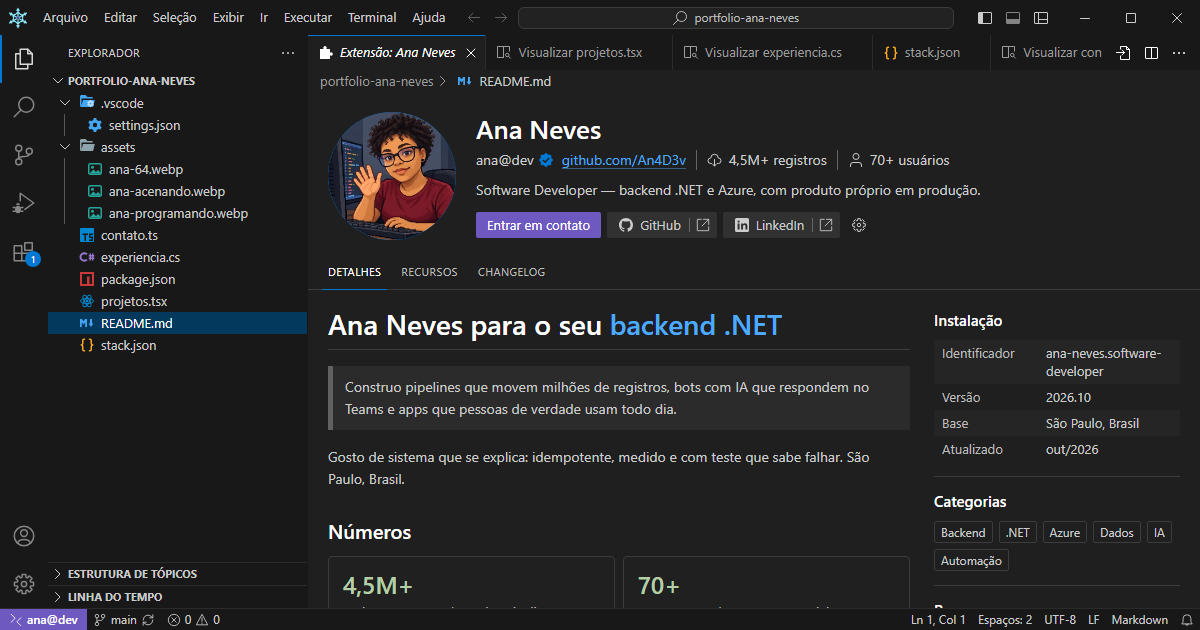
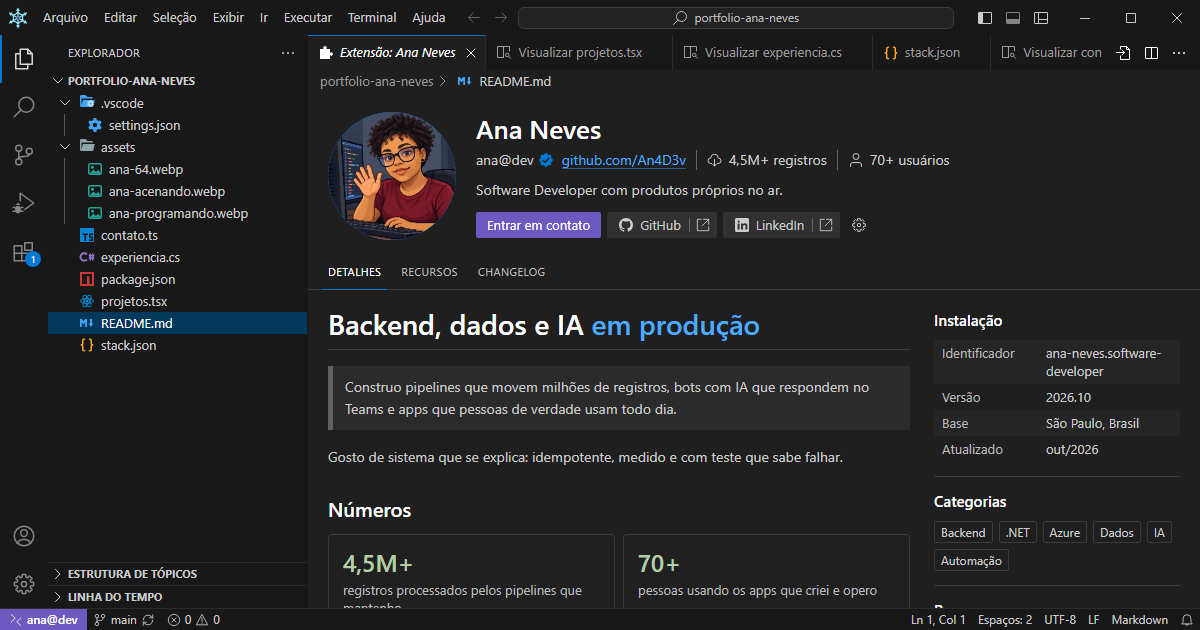
README: destaque 'Backend, dados e IA em produção' e nome sem repetição

diff --git a/index.html b/index.html
@@ -5,13 +5,13 @@
 <meta name="viewport" content="width=device-width, initial-scale=1, viewport-fit=cover, interactive-widget=resizes-content">
 <meta http-equiv="Content-Security-Policy" content="default-src 'self'; script-src 'self'; style-src 'self'; img-src 'self' data:; font-src 'self'; connect-src 'self' https://rumo-amber.vercel.app https://financas-app-ruby.vercel.app https://vale-do-trevo.vercel.app; base-uri 'none'; form-action 'none'; object-src 'none'">
 <title>Ana Neves · Software Developer</title>
-<meta name="description" content="Ana Neves — desenvolvedora backend .NET e Azure em São Paulo. Um portfólio que é um editor de código: abra as abas para ver projetos no ar, experiência, stack e contato.">
+<meta name="description" content="Ana Neves — desenvolvedora de software em São Paulo: backend, dados e IA em produção. Um portfólio que é um editor de código: abra as abas para ver projetos no ar, experiência, stack e contato.">
 <meta name="author" content="Ana Neves">
 <meta name="theme-color" content="#1f1f1f">
 <meta property="og:type" content="website">
 <meta property="og:locale" content="pt_BR">
 <meta property="og:title" content="Ana Neves · Software Developer">
-<meta property="og:description" content="Backend .NET e Azure, com produto próprio em produção. Um portfólio que é um editor de código — abra as abas.">
+<meta property="og:description" content="Backend, dados e IA em produção. Um portfólio que é um editor de código — abra as abas.">
 <meta property="og:url" content="https://ana-neves.vercel.app/">
 <meta property="og:image" content="https://ana-neves.vercel.app/og.png">
 <meta property="og:image:width" content="1200">
@@ -129,7 +129,7 @@
 <noscript>
   <div class="md">
     <h1>Ana Neves</h1>
-    <p>Software Developer — backend .NET e Azure, com produto próprio em produção. São Paulo, Brasil.</p>
+    <p>Software Developer — backend, dados e IA em produção. São Paulo, Brasil.</p>
     <p>Este portfólio é um editor de código interativo e precisa de JavaScript. Enquanto isso:
       <a href="https://github.com/An4D3v">GitHub</a> ·
       <a href="https://www.linkedin.com/in/anad3v/">LinkedIn</a> ·
@@ -399,7 +399,7 @@
             <span>70+ usuários</span>
           </span>
         </div>
-        <p class="ext-descricao">Software Developer — backend .NET e Azure, com produto próprio em produção.</p>
+        <p class="ext-descricao">Software Developer com produtos próprios no ar.</p>
         <div class="ext-acoes">
           <a class="ext-btn ext-btn-primario" href="mailto:ana-neves98@outlook.com">Entrar em contato</a>
           <a class="ext-btn ext-btn-secundario" href="https://github.com/An4D3v" target="_blank" rel="noopener">
@@ -428,13 +428,13 @@
     <div class="ext-painel" role="tabpanel" id="ext-painel-detalhes" aria-labelledby="ext-aba-detalhes" tabindex="0">
       <div class="ext-detalhes">
         <article class="ext-md">
-          <h2 class="ext-md-h1">Ana Neves para o seu <span class="ext-md-link">backend .NET</span></h2>
+          <h2 class="ext-md-h1">Backend, dados e IA <span class="ext-md-link">em&nbsp;produção</span></h2>
 
           <blockquote class="ext-md-citacao">
             <p>Construo pipelines que movem milhões de registros, bots com IA que respondem no Teams e apps que pessoas de verdade usam todo dia.</p>
           </blockquote>
 
-          <p>Gosto de sistema que se explica: idempotente, medido e com teste que sabe falhar. São Paulo, Brasil.</p>
+          <p>Gosto de sistema que se explica: idempotente, medido e com teste que sabe falhar.</p>
 
           <h3 class="ext-md-h2">Números</h3>
           <ul class="ext-numeros" role="list">

diff --git a/app.js b/app.js
@@ -123,8 +123,8 @@
   const FONTES = {
     sobre: () => `# Ana Neves
 
-> Software Developer — backend **.NET** e **Azure**, com produto próprio em produção.
-> São Paulo, Brasil · [ana@dev](https://github.com/An4D3v)
+> **Backend, dados e IA em produção.**
+> Software Developer com produtos próprios no ar · São Paulo, Brasil · [ana@dev](https://github.com/An4D3v)
 
 Construo pipelines que movem milhões de registros, bots com IA que
 respondem no Teams e apps que pessoas de verdade usam todo dia.
@@ -1513,7 +1513,7 @@ Funcionam como no VS Code. No Mac, troque \`Ctrl\` por \`Cmd\`.
     const dela = !q || norm('Ana Neves Software Developer').includes(q);
     $('#ext-cont').textContent = String(lista.length + (dela ? 1 : 0));
     $('#ext-lista').innerHTML = (dela
-      ? `<button class="ext-item dela" type="button" data-abrir="sobre"><span class="ext-ic redondo" aria-hidden="true"><img src="assets/ana-64.webp" alt="" width="42" height="42"></span><span class="ext-nome">Ana Neves</span><span class="ext-desc">Software Developer — backend .NET e Azure</span><span class="ext-pub">${ic('verified-filled')}ana@dev</span></button>`
+      ? `<button class="ext-item dela" type="button" data-abrir="sobre"><span class="ext-ic redondo" aria-hidden="true"><img src="assets/ana-64.webp" alt="" width="42" height="42"></span><span class="ext-nome">Ana Neves</span><span class="ext-desc">Software Developer — backend, dados e IA</span><span class="ext-pub">${ic('verified-filled')}ana@dev</span></button>`
       : '')
       + lista.map((x) => `<button class="ext-item" type="button" data-ext="${esc(x.busca)}"><span class="ext-ic" aria-hidden="true">${esc(x.sigla)}</span><span class="ext-nome">${esc(x.nome)}</span><span class="ext-desc">${esc(x.desc)}</span><span class="ext-pub">${ic('verified-filled')}ana@dev</span></button>`).join('')
       + (lista.length || dela ? '' : '<p class="vazio-msg">Nenhuma extensão encontrada.</p>');
@@ -1707,7 +1707,7 @@ Funcionam como no VS Code. No Mac, troque \`Ctrl\` por \`Cmd\`.
         ? `<span class="term-dest">${n}</span>  ${esc(c.desc)}`
         : `  <span class="term-dest">${n.padEnd(12)}</span>${esc(c.desc)}`)).join('\n')),
     },
-    whoami: { desc: 'quem é a Ana', fn: () => linhaTerm('Ana Neves — Software Developer · backend .NET e Azure · São Paulo, Brasil') },
+    whoami: { desc: 'quem é a Ana', fn: () => linhaTerm('Ana Neves — Software Developer · backend, dados e IA · São Paulo, Brasil') },
     sobre: {
       desc: 'resumo em três linhas',
       fn: () => linhaTerm('Primeira e única dev de um escritório jurídico: pipelines com 4,5M+ registros,\nbots com IA no Teams e classificador LLM em produção.\nFora do expediente: 3 apps próprios no ar, com 70+ pessoas usando.'),
